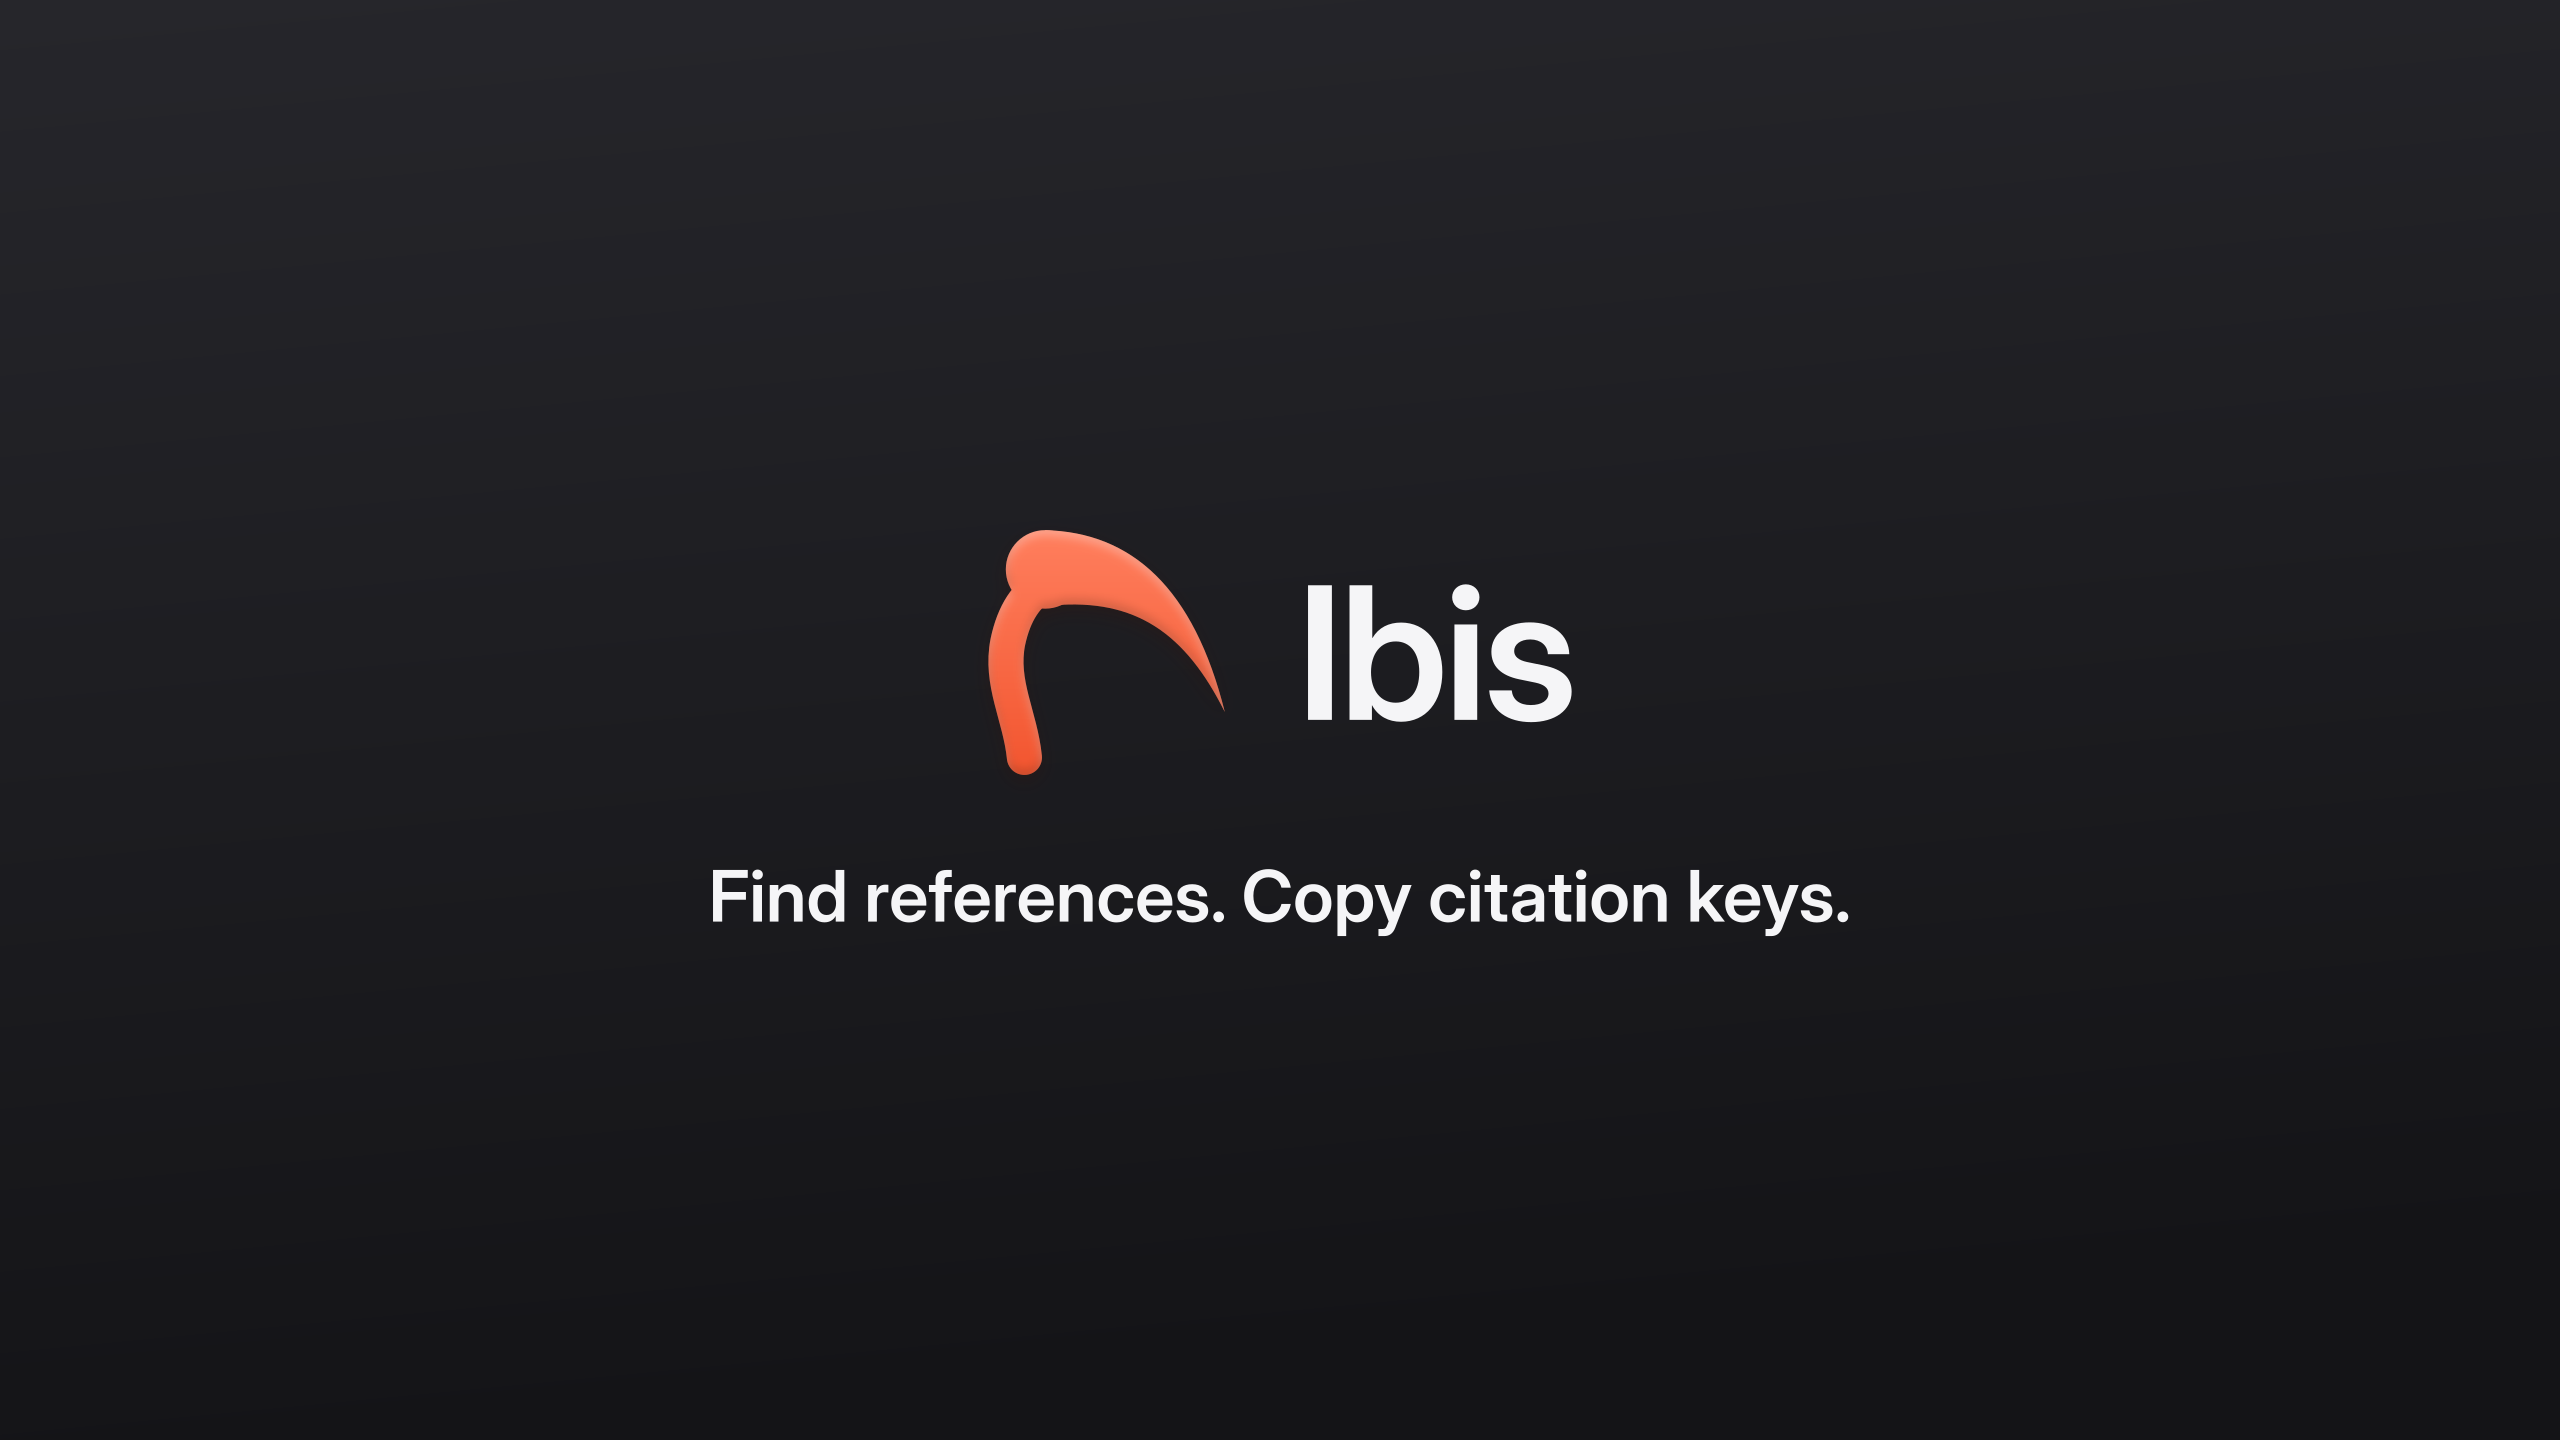
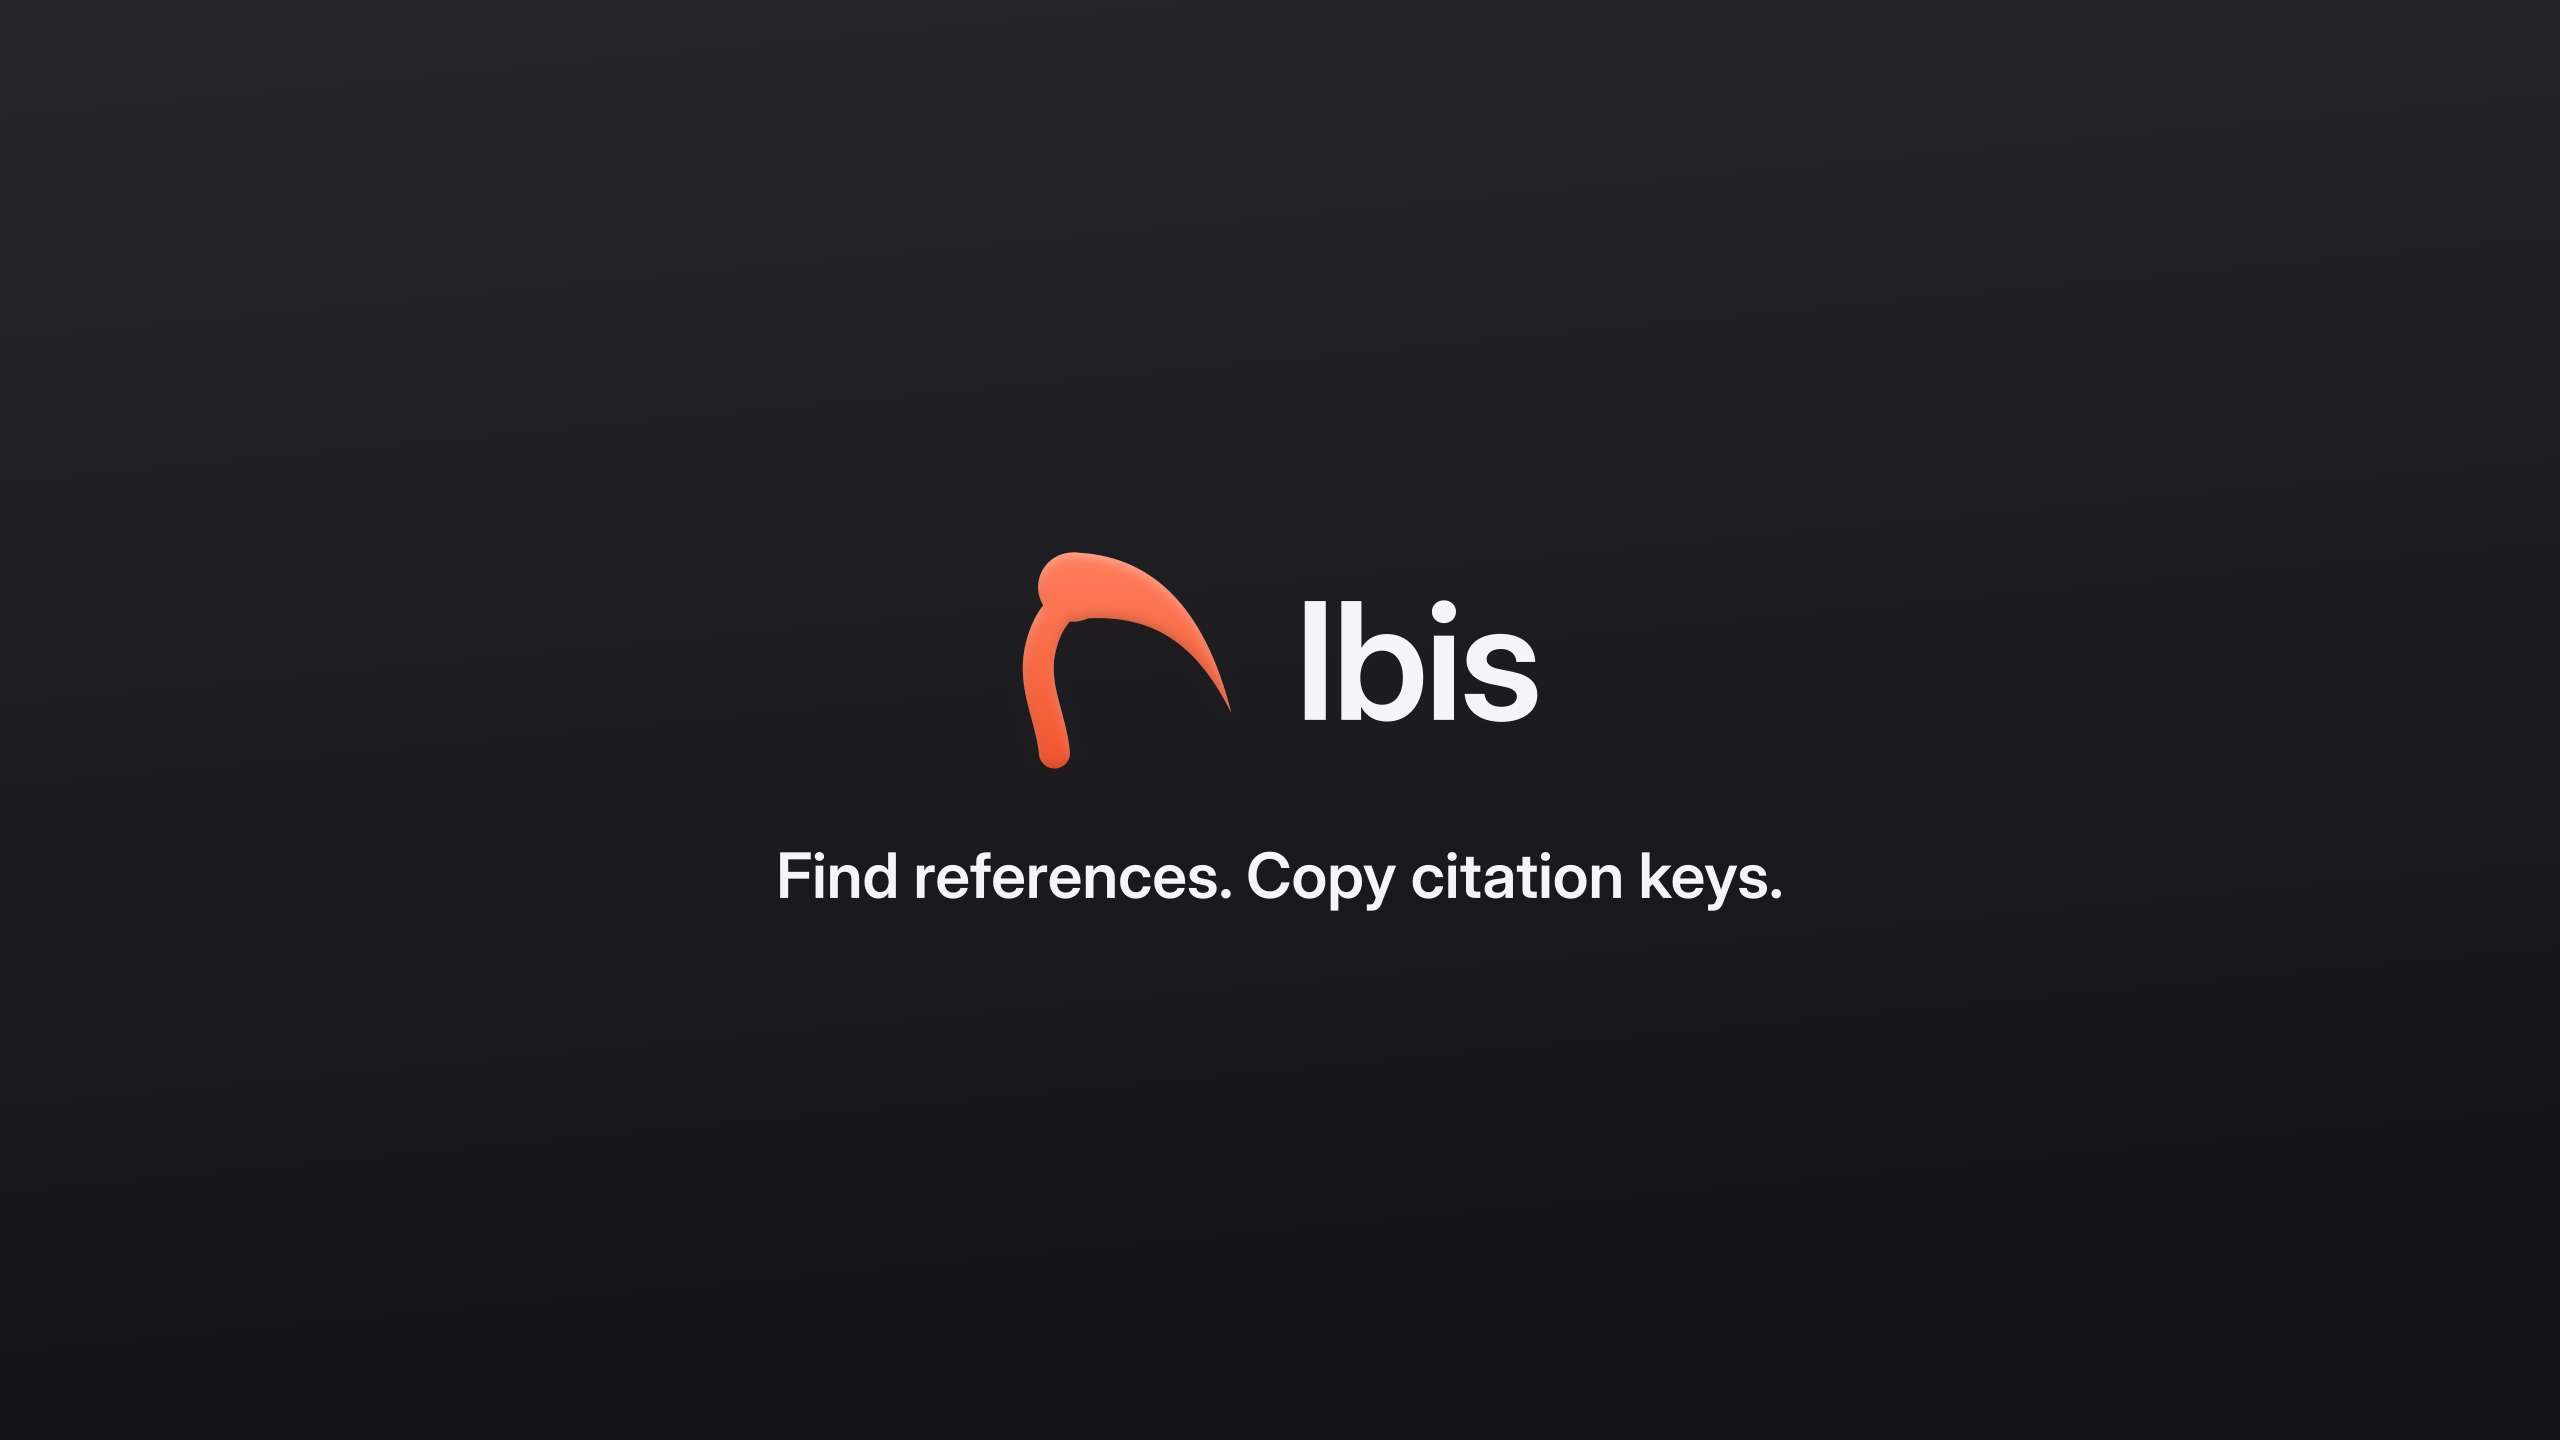
docs: address brand review notes
Animated logos now default to the finished frame, so renderers without
CSS animation show the full logo. Move rim, tile edge and motion values
into settings.json, fail loudly when the master's neck or animation
tags change, keep the YouTube banner inside the safe area, and fix the
optical centre wording in the brand guide.

Refs #995

Claude-Session: https://claude.ai/code/session_01DmkBNZFY1Uy3f48ZBUWLdU

Changed region(s): [[0.2812, 0.5938, 0.7188, 0.6562], [0.375, 0.3438, 0.4688, 0.5312], [0.4688, 0.4062, 0.625, 0.5]]

diff --git a/brand/build.py b/brand/build.py
@@ -80,11 +80,17 @@ def rasterize(svg):
     return width, height, rows
 
 
+def thicken(body, neck):
+    if 'stroke-width="8.5"' not in body:
+        raise SystemExit("master.svg's neck is no longer 8.5 wide; update thicken() in build.py")
+    return body.replace('stroke-width="8.5"', f'stroke-width="{neck}"')
+
+
 def optical_centre(name, neck=None):
     """The point to centre on: the outline's centre, moved sideways toward the centre of mass."""
     (bx, by, bw, bh), body = SYM[name]
     if neck:
-        body = body.replace('stroke-width="8.5"', f'stroke-width="{neck}"')
+        body = thicken(body, neck)
     scale = 8
     svg = (f'<svg xmlns="http://www.w3.org/2000/svg" width="{bw * scale:.0f}" height="{bh * scale:.0f}" '
            f'viewBox="{bx} {by} {bw} {bh}">{body.replace("currentColor", "#000")}</svg>')
@@ -114,10 +120,10 @@ def depth_filter(fid, box):
     return (
         f'<filter id="{fid}" filterUnits="userSpaceOnUse" x="{bx - m:g}" y="{by - m:g}" '
         f'width="{bw + 2 * m:g}" height="{bh + 2 * m + D["shadow_drop"]:g}" color-interpolation-filters="sRGB">'
-        '<feGaussianBlur in="SourceAlpha" stdDeviation="1.1" result="b"/>'
-        '<feOffset in="b" dy="1.3" result="bd"/><feComposite in="SourceAlpha" in2="bd" operator="out" result="top"/>'
+        f'<feGaussianBlur in="SourceAlpha" stdDeviation="{D["rim_blur"]}" result="b"/>'
+        f'<feOffset in="b" dy="{D["rim_offset"]}" result="bd"/><feComposite in="SourceAlpha" in2="bd" operator="out" result="top"/>'
         f'<feFlood flood-color="#fff" flood-opacity="{D["rim_light"]}"/><feComposite in2="top" operator="in" result="hl"/>'
-        '<feOffset in="b" dy="-1.3" result="bu"/><feComposite in="SourceAlpha" in2="bu" operator="out" result="bot"/>'
+        f'<feOffset in="b" dy="{-D["rim_offset"]}" result="bu"/><feComposite in="SourceAlpha" in2="bu" operator="out" result="bot"/>'
         f'<feFlood flood-color="#000" flood-opacity="{D["rim_shade"]}"/><feComposite in2="bot" operator="in" result="sh"/>'
         f'<feGaussianBlur in="SourceAlpha" stdDeviation="{D["shadow_blur"]}" result="db"/>'
         f'<feOffset in="db" dy="{D["shadow_drop"]}" result="do"/>'
@@ -140,7 +146,7 @@ def draw(name, k, tx, ty, paint, uid, depth=False, neck=None):
                 + depth_filter(f"{uid}f", SYM[name][0]))
         paint, attr = f"url(#{uid}g)", f' filter="url(#{uid}f)"'
     if neck:
-        body = body.replace('stroke-width="8.5"', f'stroke-width="{neck}"')
+        body = thicken(body, neck)
     body = body.replace("currentColor", paint)
     return defs, f'<g transform="translate({tx:.3f} {ty:.3f}) scale({k:.5f})"><g{attr}>{body}</g></g>'
 
@@ -214,7 +220,7 @@ def background(w, h, colours, uid, radius=0, edge=None):
 def app_icon(dark, uid):
     side = 1024
     d1, b1 = background(side, side, TILE_DARK if dark else TILE, uid, L["app_icon_radius"] * side,
-                        "rgba(255,255,255,0.12)" if dark else "rgba(0,0,0,0.10)")
+                        C["tile_edge_dark"] if dark else C["tile_edge"])
     d2, b2 = centred("mark", side, CONTAINER * side, GRADIENT_DARK if dark else GRADIENT, uid, True)
     return doc(side, side, d1 + d2, b1 + b2)
 
@@ -337,39 +343,41 @@ def ico(svg_name, sizes):
 
 
 def motion_css():
+    """The finished logo is the base style, so renderers that do not animate still show it.
+    Each animation starts from its keyframes' first frame and holds it until it begins."""
     t = MO
-    ease = "cubic-bezier(.2,.8,.2,1)"
     return (
-        f".neck{{stroke-dasharray:1;stroke-dashoffset:1;opacity:0;animation:draw {t['neck_duration']}s {ease} {t['neck_start']}s forwards}}"
-        f".crown{{transform-box:fill-box;transform-origin:18% 22%;transform:rotate(-28deg) scale(.08);opacity:0;"
-        f"animation:grow {t['crown_duration']}s cubic-bezier(.2,1.25,.35,1) {t['crown_start']}s forwards}}"
-        f".word{{opacity:0;transform:translateX(-6px);animation:word {t['word_duration']}s {ease} {t['word_start']}s forwards}}"
-        "@keyframes draw{0%{opacity:0}8%{opacity:1}to{stroke-dashoffset:0;opacity:1}}"
-        "@keyframes grow{0%{opacity:0}15%{opacity:1}to{transform:none;opacity:1}}"
-        "@keyframes word{to{opacity:1;transform:none}}"
-        "@media (prefers-reduced-motion:reduce){.neck,.crown,.word{animation:none;stroke-dashoffset:0;transform:none;opacity:1}}"
+        f".neck{{stroke-dasharray:1;animation:draw {t['neck_duration']}s {t['ease']} {t['neck_start']}s backwards}}"
+        f".crown{{transform-box:fill-box;transform-origin:18% 22%;"
+        f"animation:grow {t['crown_duration']}s {t['crown_ease']} {t['crown_start']}s backwards}}"
+        f".word{{animation:word {t['word_duration']}s {t['ease']} {t['word_start']}s backwards}}"
+        "@keyframes draw{0%{stroke-dashoffset:1;opacity:0}8%{opacity:1}to{stroke-dashoffset:0}}"
+        f"@keyframes grow{{0%{{transform:rotate({t['crown_turn']}deg) scale({t['crown_from']});opacity:0}}15%{{opacity:1}}}}"
+        f"@keyframes word{{0%{{opacity:0;transform:translateX({-t['word_slide']}px)}}}}"
+        "@media (prefers-reduced-motion:reduce){.neck,.crown,.word{animation:none}}"
     )
+
+
+def animate(svg):
+    """Tag the neck and group the head with the beak so they grow from the head's centre as one shape."""
+    out = svg.replace('<path d="M36', '<path class="neck" pathLength="1" d="M36', 1)
+    out = re.sub(r'(<path d="M41 25[^"]*"[^>]*/>)(<circle [^>]*/>)', r'<g class="crown">\1\2</g>', out, count=1)
+    if 'class="neck"' not in out or 'class="crown"' not in out:
+        raise SystemExit("master.svg's bird changed shape order; update animate() in build.py")
+    return out.replace("<defs>", f"<defs><style>{motion_css()}</style>", 1)
 
 
 def animated_logo(dark, uid):
     """The logo drawing itself in about 1.5 s: the neck rises, the head and beak grow out as one shape,
     then the wordmark slides in."""
-    svg = logo(dark, uid)
-    svg = svg.replace('<path d="M36', '<path class="neck" pathLength="1" d="M36', 1)
-    # Head and beak share one group so they grow from the head's centre together, never apart.
-    svg = re.sub(r'(<path d="M41 25[^"]*"[^>]*/>)(<circle [^>]*/>)', r'<g class="crown">\1\2</g>', svg, count=1)
-    head, word = svg.rsplit("<g transform=", 1)
+    head, word = logo(dark, uid).rsplit("<g transform=", 1)
     # Wrap the wordmark: a CSS transform on the group itself would replace its placement.
-    svg = head + '<g class="word"><g transform=' + word.replace("</svg>", "</g></svg>")
-    return svg.replace("<defs>", f"<defs><style>{motion_css()}</style>", 1)
+    return animate(head + '<g class="word"><g transform=' + word.replace("</svg>", "</g></svg>"))
 
 
 def animated_mark(dark, uid):
     """The bird alone drawing itself, for splash screens, avatars in videos and loading states."""
-    svg = mark(GRADIENT_DARK if dark else GRADIENT, uid)
-    svg = svg.replace('<path d="M36', '<path class="neck" pathLength="1" d="M36', 1)
-    svg = re.sub(r'(<path d="M41 25[^"]*"[^>]*/>)(<circle [^>]*/>)', r'<g class="crown">\1\2</g>', svg, count=1)
-    return svg.replace("<defs>", f"<defs><style>{motion_css()}</style>", 1)
+    return animate(mark(GRADIENT_DARK if dark else GRADIENT, uid))
 
 
 def video_card(w, h, dark, uid, lines, logo_size=0.2):
@@ -443,7 +451,7 @@ def main():
         "video/title-card.svg": video_card(1920, 1080, False, "vt", [TAGLINE, SUBLINE]),
         "video/title-card-dark.svg": video_card(1920, 1080, True, "vtd", [TAGLINE, SUBLINE]),
         "video/end-card.svg": video_card(1920, 1080, True, "ve", W["end_card"]),
-        "video/youtube-banner.svg": video_card(2560, 1440, True, "yb", [TAGLINE], 0.17),
+        "video/youtube-banner.svg": video_card(2560, 1440, True, "yb", [TAGLINE], 0.15),
         "video/thumbnail-template.svg": thumbnail("th"),
     }
     (OUT / "video").mkdir(exist_ok=True)

diff --git a/brand/README.md b/brand/README.md
@@ -30,7 +30,7 @@ M is the height of the bird.
 - **Space.** Every file already keeps 0.135 M free on each side for the soft shadow. On a page, keep at least 0.25 M clear around the logo.
 - **Logo.** The wordmark's capital height is 0.55 M, centred on the bird, with 0.34 M between the beak tip and "Ibis". Show it about 240 px wide in a README. When the bird would be under 24 px tall, use the bird alone.
 - **In a container.** The bird is 62% of the height of an app icon, avatar or maskable icon. Favicons use the largest bird that fits.
-- **Optical centre.** The bird's weight is in its head, so its outline's centre looks too far left and too high. Square files and containers move it sideways halfway toward its centre of mass (which `build.py` measures from the master) and, vertically, keep the outline's centre lifted 1.5% of the container, a little above the middle.
+- **Optical centre.** The bird's weight is in its head, so its outline's centre looks too far left. Square files and containers move it sideways halfway toward its centre of mass (which `build.py` measures from the master) and, vertically, keep the outline's centre lifted 1.5% of the container, a little above the middle.
 - **Depth.** The soft depth is for 48 px and up; smaller uses the flat bird. Favicons use a slightly thicker neck so the bird still reads at 16 px.
 - **Colour.** Scarlet 600 `#C23A1C` on light backgrounds and Scarlet 400 `#FF7A5C` on dark. Text is Ink `#16181D` or Slate `#4C5260` on light, and near-white on dark. The full Scarlet scale (50 to 900) is for websites and videos: tints for backgrounds, 600 to 800 for text and links on light. Never stretch, outline or recolour the bird in other hues, or add effects.
 - **Themes.** Websites use `colors.css`: light by default, dark when the system is dark, and an optional dim theme (`data-theme="dim"`) for a softer charcoal. Each theme names the same roles: `bg`, `surface`, `line`, `text`, `muted`, `accent`, `accent-soft`.
